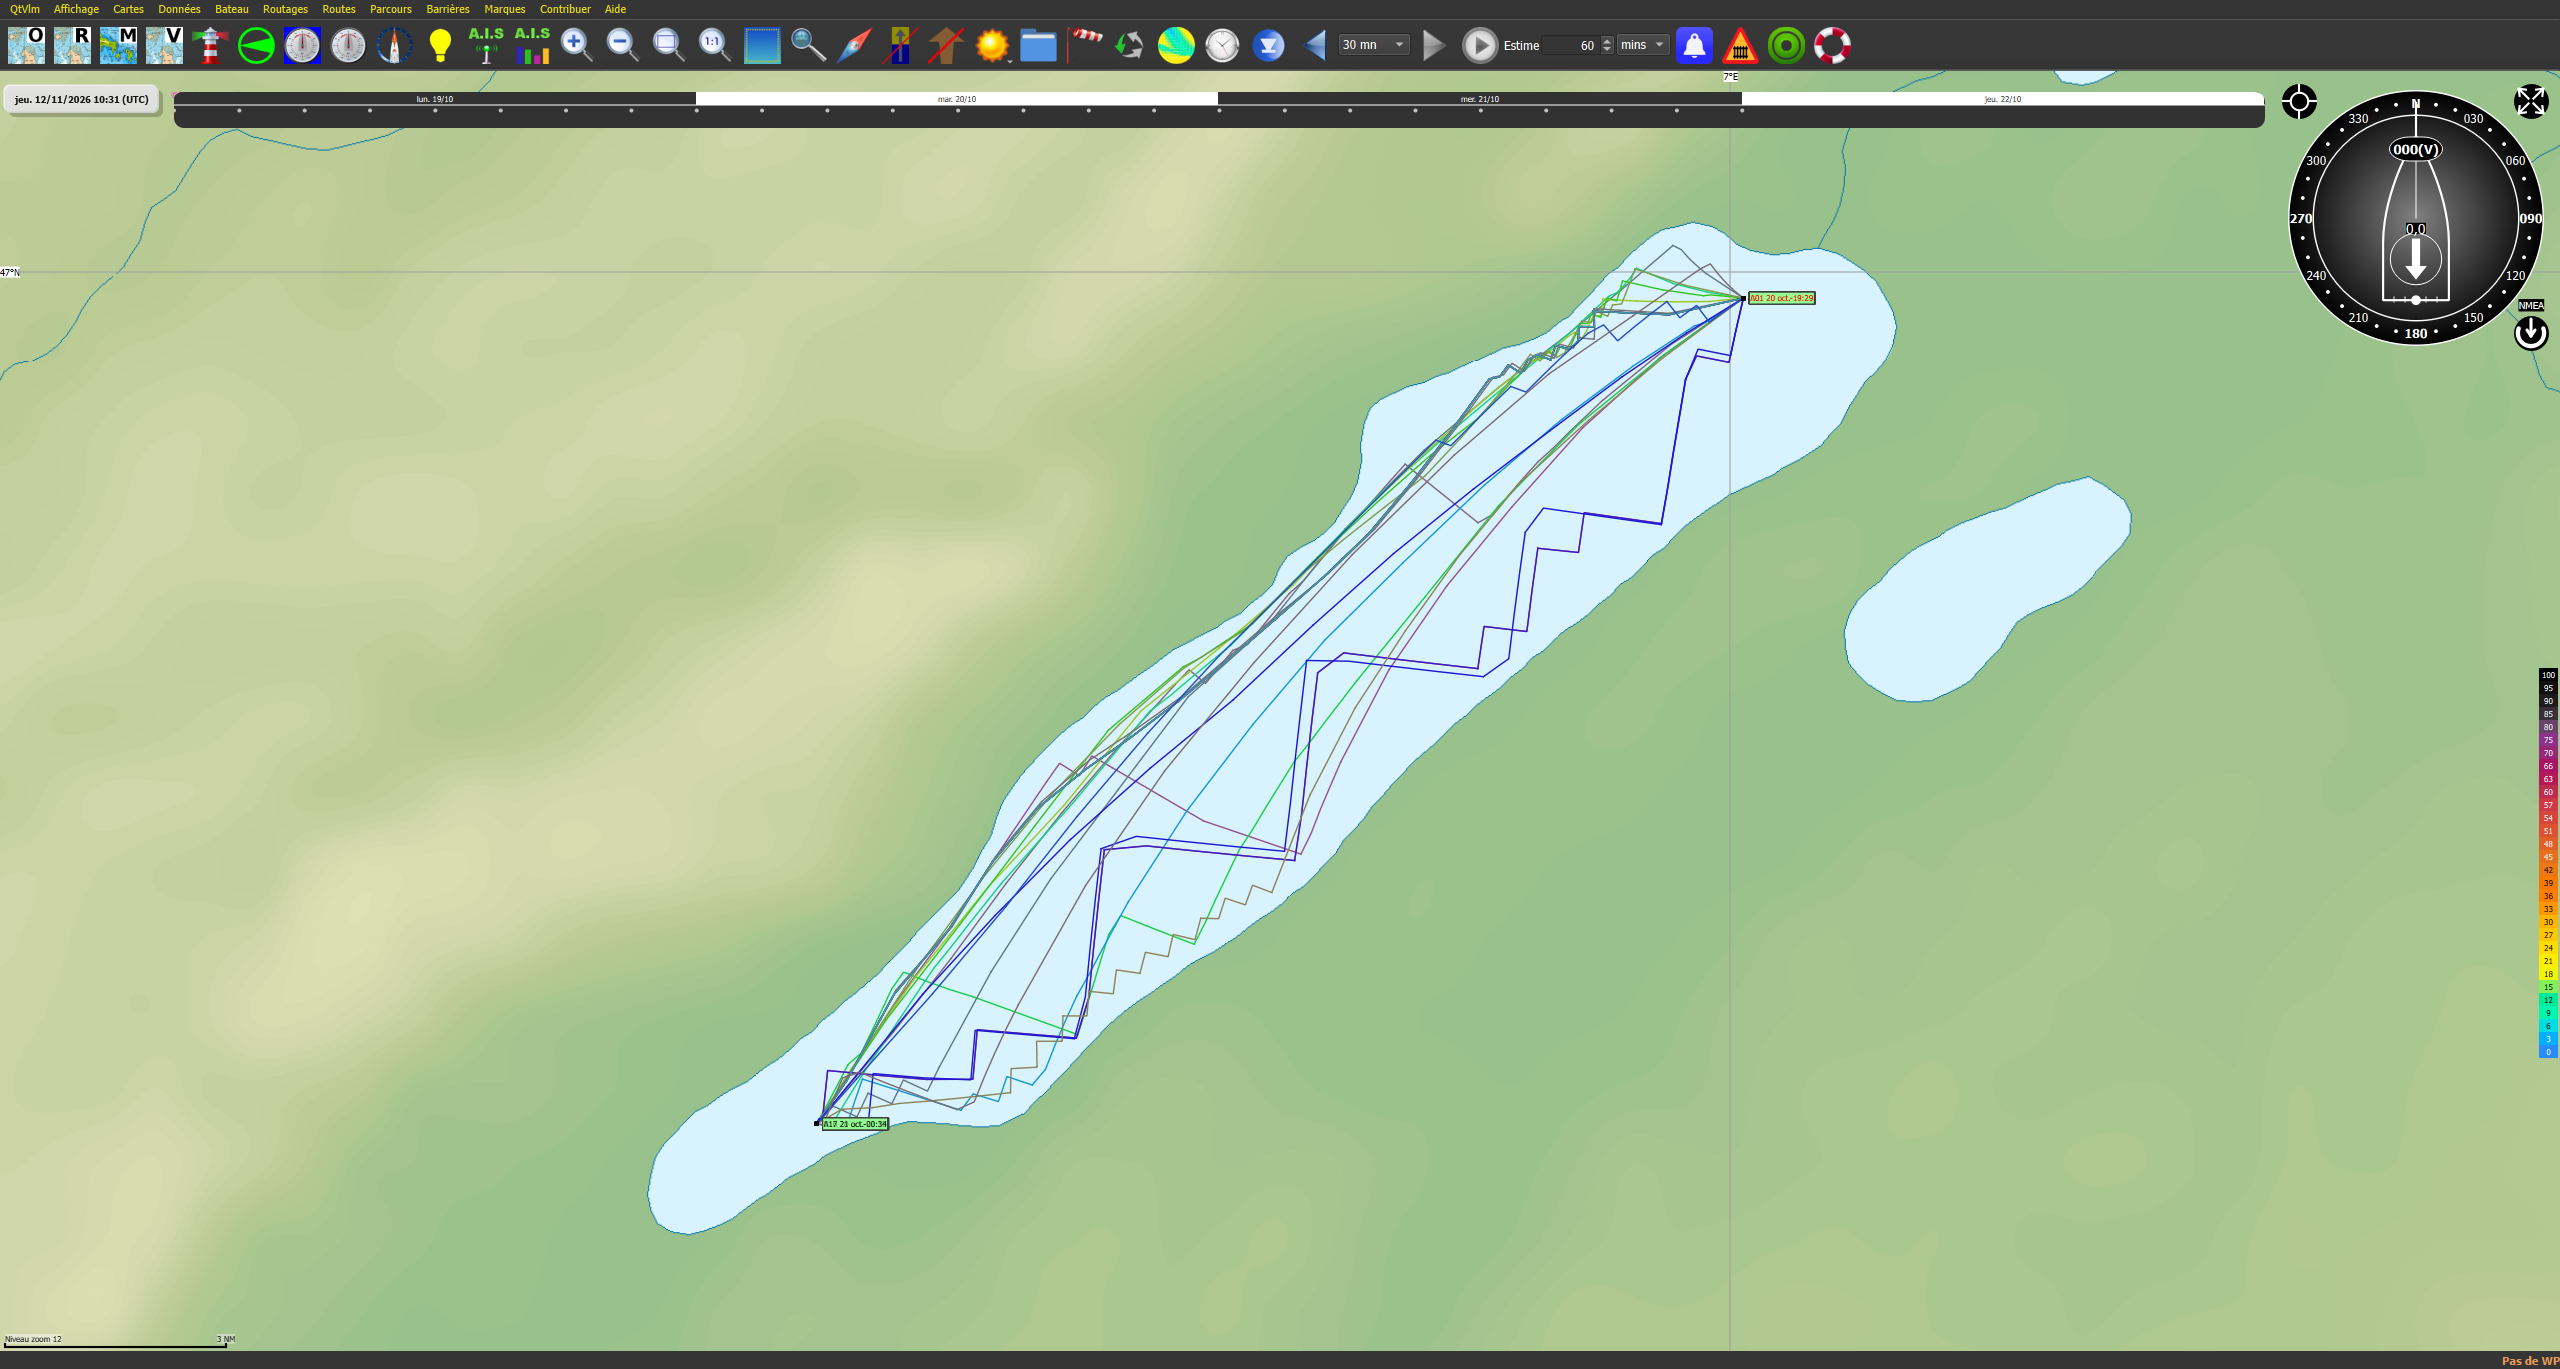
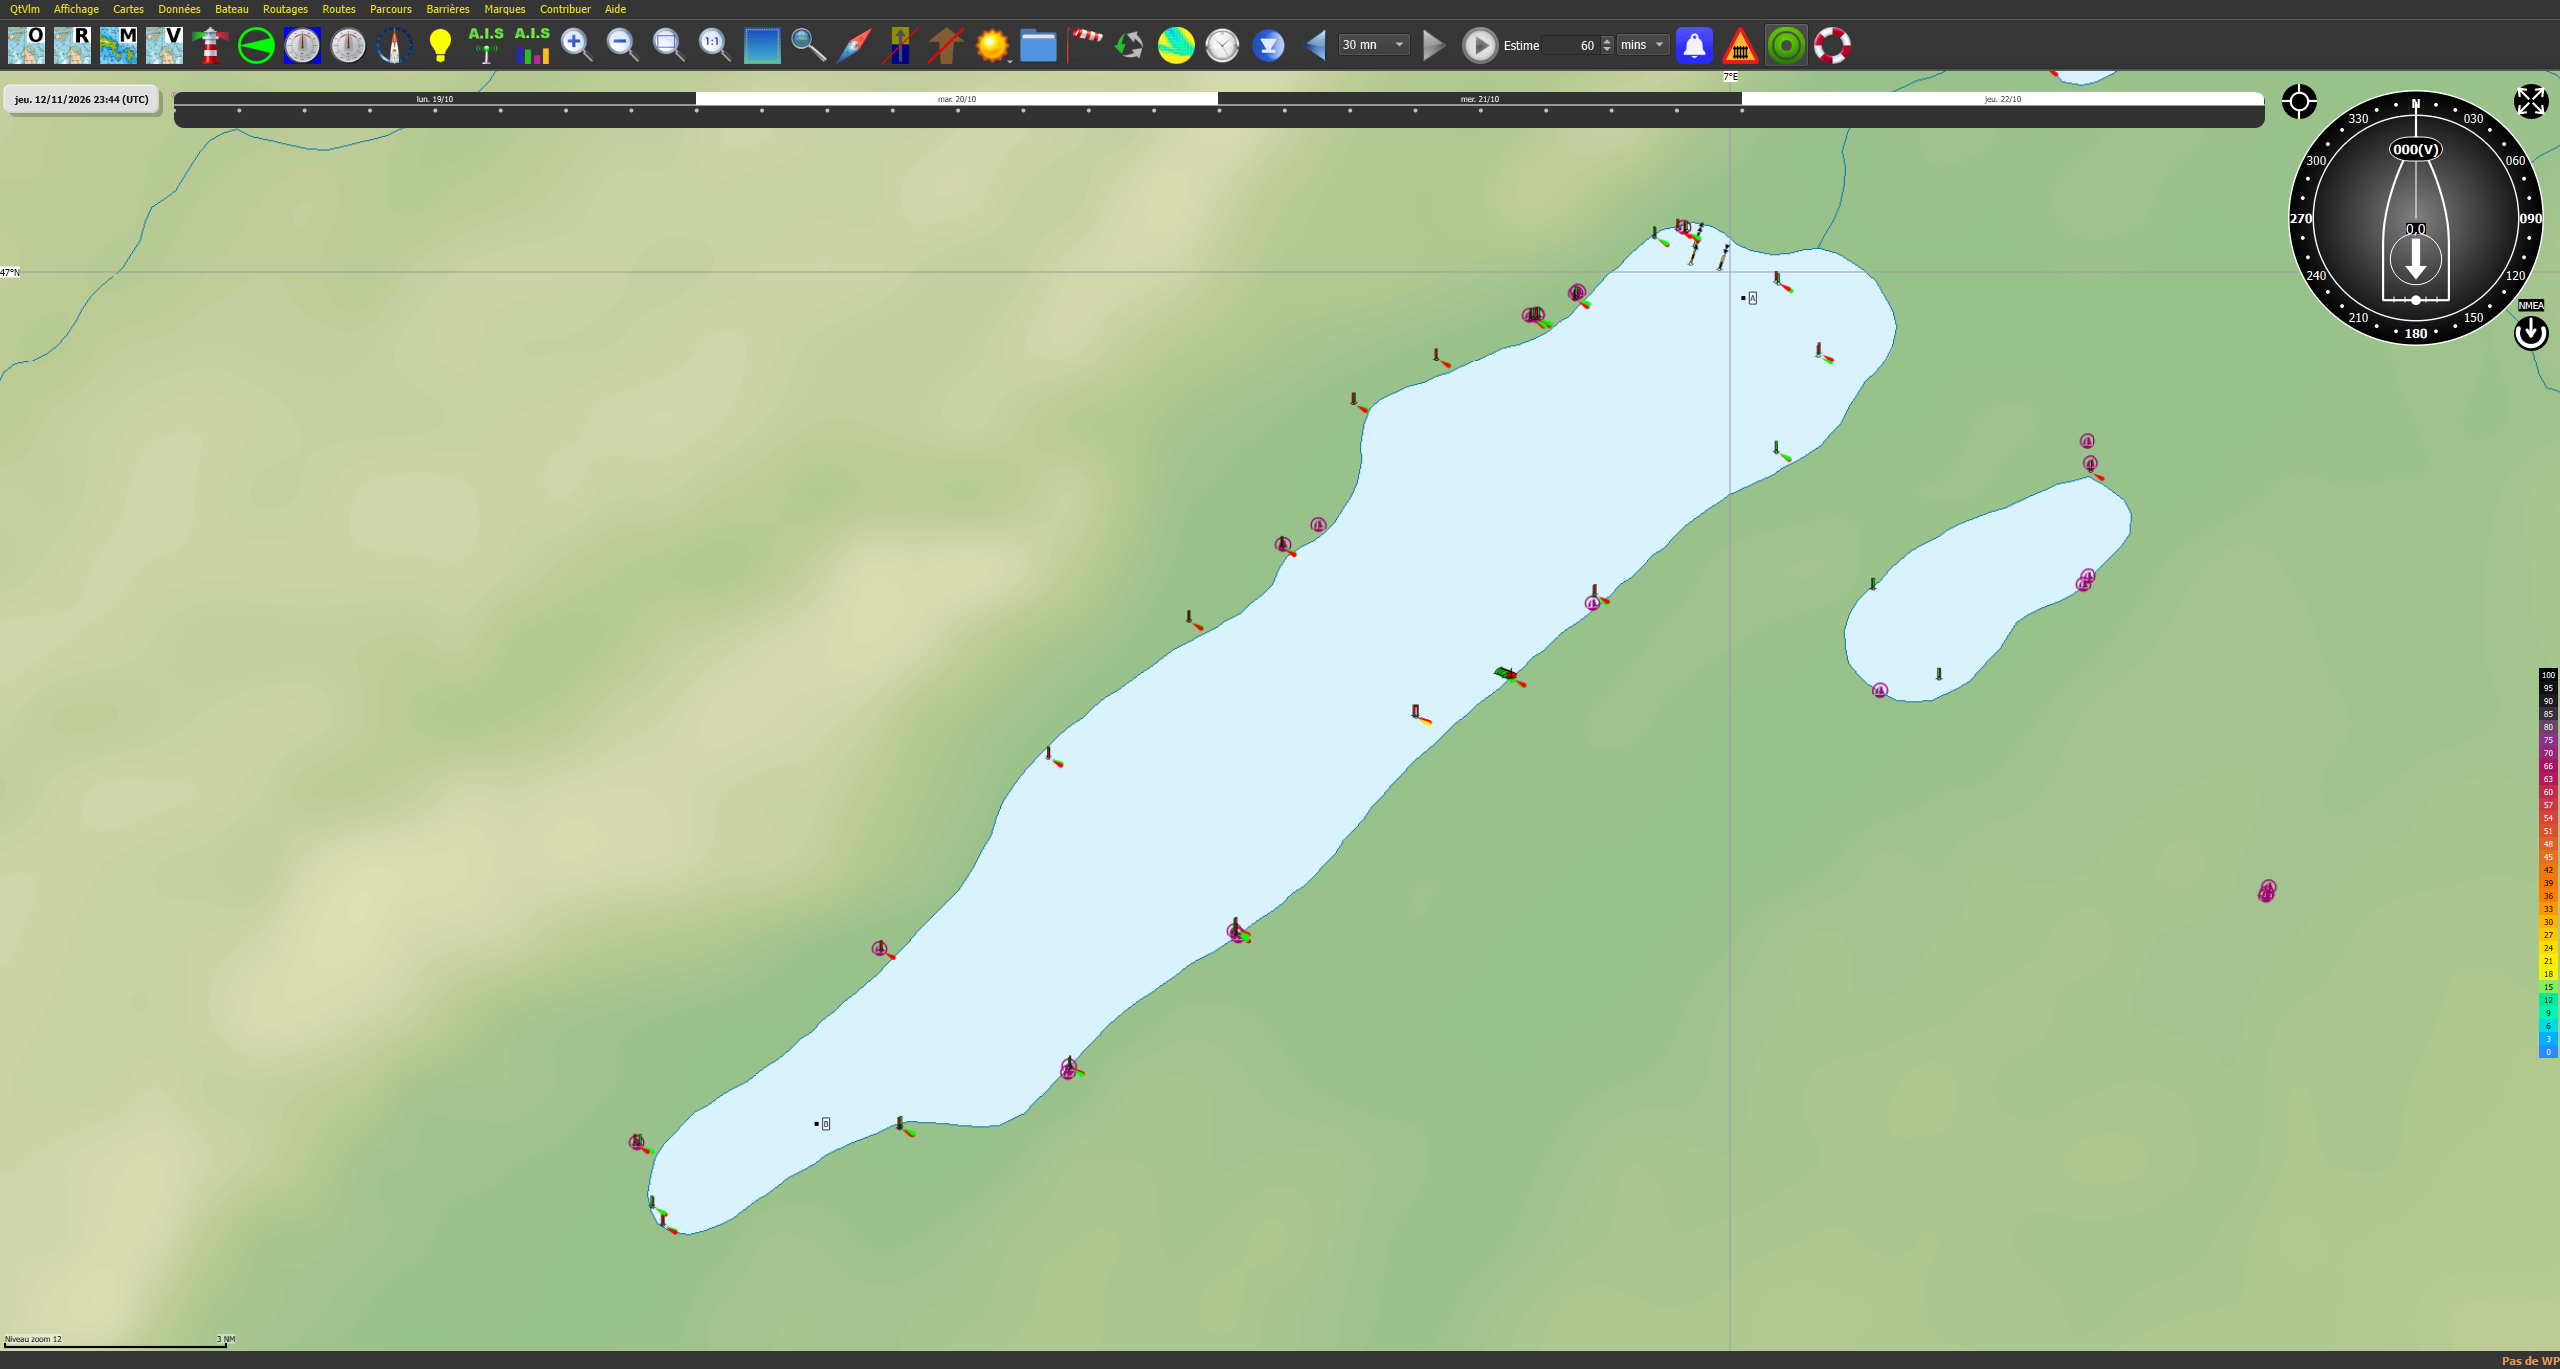
pour mon PC

Changed region(s): [[0.3125, 0.1534, 0.7188, 0.8283]]

diff --git a/Test_Commande.py b/Test_Commande.py
@@ -49,9 +49,9 @@ START_DATE = "10/20/2026" #Attention : la date doit être au format MM/DD/YYYY p
 START_TIME = "16:00:00"
 NO_ROUTE_OUTSIDE_SCREEN = False
 MULTI_ROUTING = True
-GENERATE_ROUTES = 5
+GENERATE_ROUTES = 4
 STEP_DAYS = 0
-STEP_HOURS = 1
+STEP_HOURS = 4
 STEP_MINUTES = 0
 AUTO_SIMP_OPTIM = True
 COMPARATOR_CSV_FILE = DOSSIER / "Sorties" / "resumeRoutingsAversB.csv"
@@ -413,7 +413,7 @@ def ecrire_batch_routing() -> None:
         <stepMins>{STEP_MINUTES}</stepMins>
         <autoSimpOptim>{str(AUTO_SIMP_OPTIM).lower()}</autoSimpOptim>
         <comparatorCsvFile>{escape(str(COMPARATOR_CSV_FILE))}</comparatorCsvFile>
-        <takeScreenShot>{escape(str(SCREENSHOT_FILE))}</takeScreenShot>
+        
     </run>
     <run>
         <quit>{str(QUIT_AFTER_ROUTING).lower()}</quit>
@@ -422,6 +422,7 @@ def ecrire_batch_routing() -> None:
 """
     BATCH_ROUTING.write_text(xml, encoding="utf-8")
 
+#<takeScreenShot>{escape(str(SCREENSHOT_FILE))}</takeScreenShot>
 
 def ecrire_batch_export(directory_route: str) -> None: # écrit le fichier export_route.xml pour exporter la route choisie
     xml = f"""<runs>
